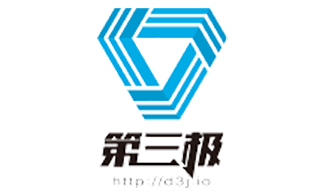
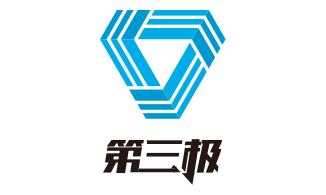
update D3J的logo

Changed region(s): [[0.2761, 0.0308, 0.7055, 0.6462], [0.3067, 0.6769, 0.7055, 0.9538]]

diff --git a/components/index/CooComponent.js b/components/index/CooComponent.js
@@ -21,7 +21,7 @@ export default ({ language }) => (
                         </a>
                     </div>
                     <div className="col-md-3 col-xs-6 cooimg col-4">
-                        <a href="http://d3j.io/" target="_blank">
+                        <a href="http://labs.fo/" target="_blank">
                             <img src="../imgs/coop5.png" className="coo-pic" />
                         </a>
                     </div>
